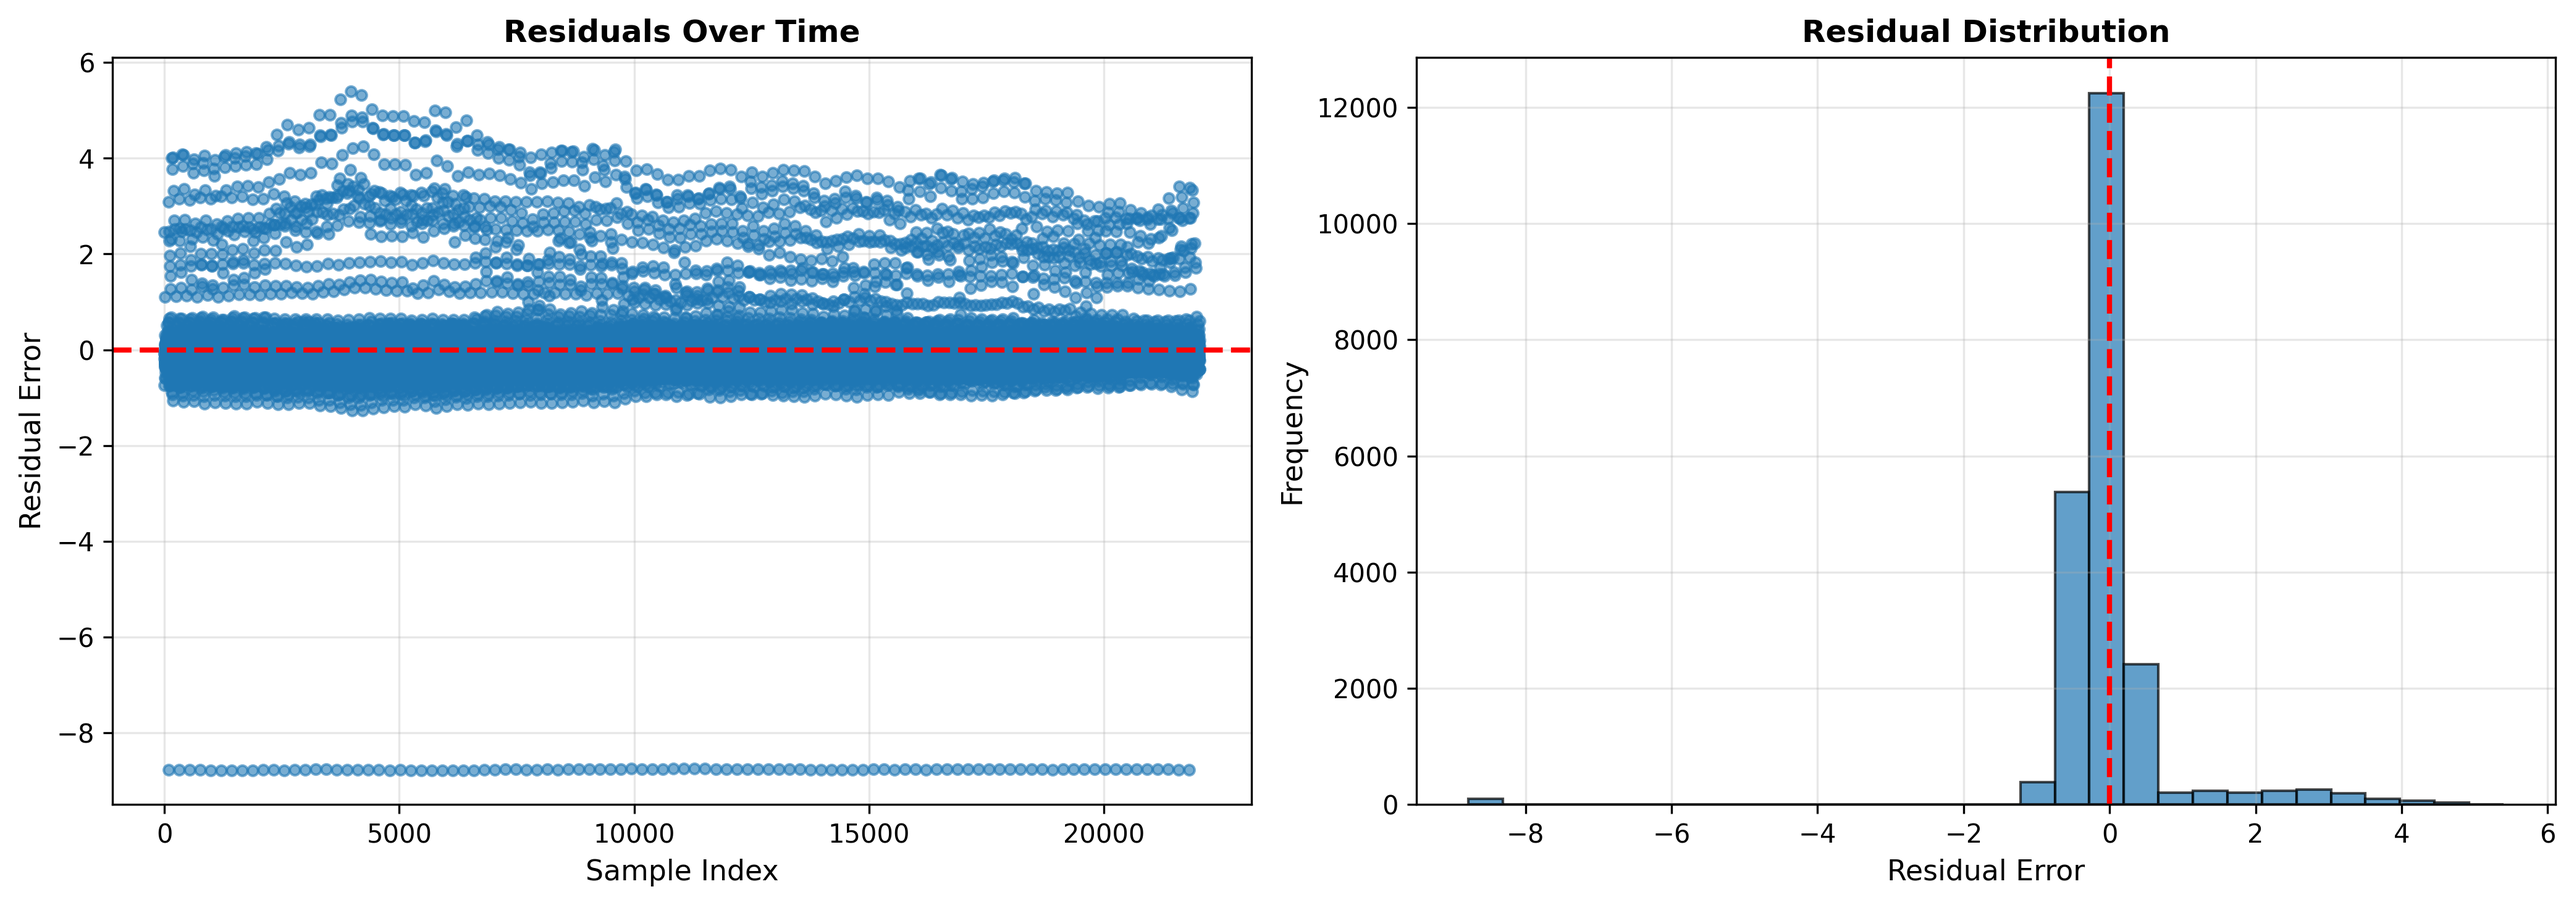
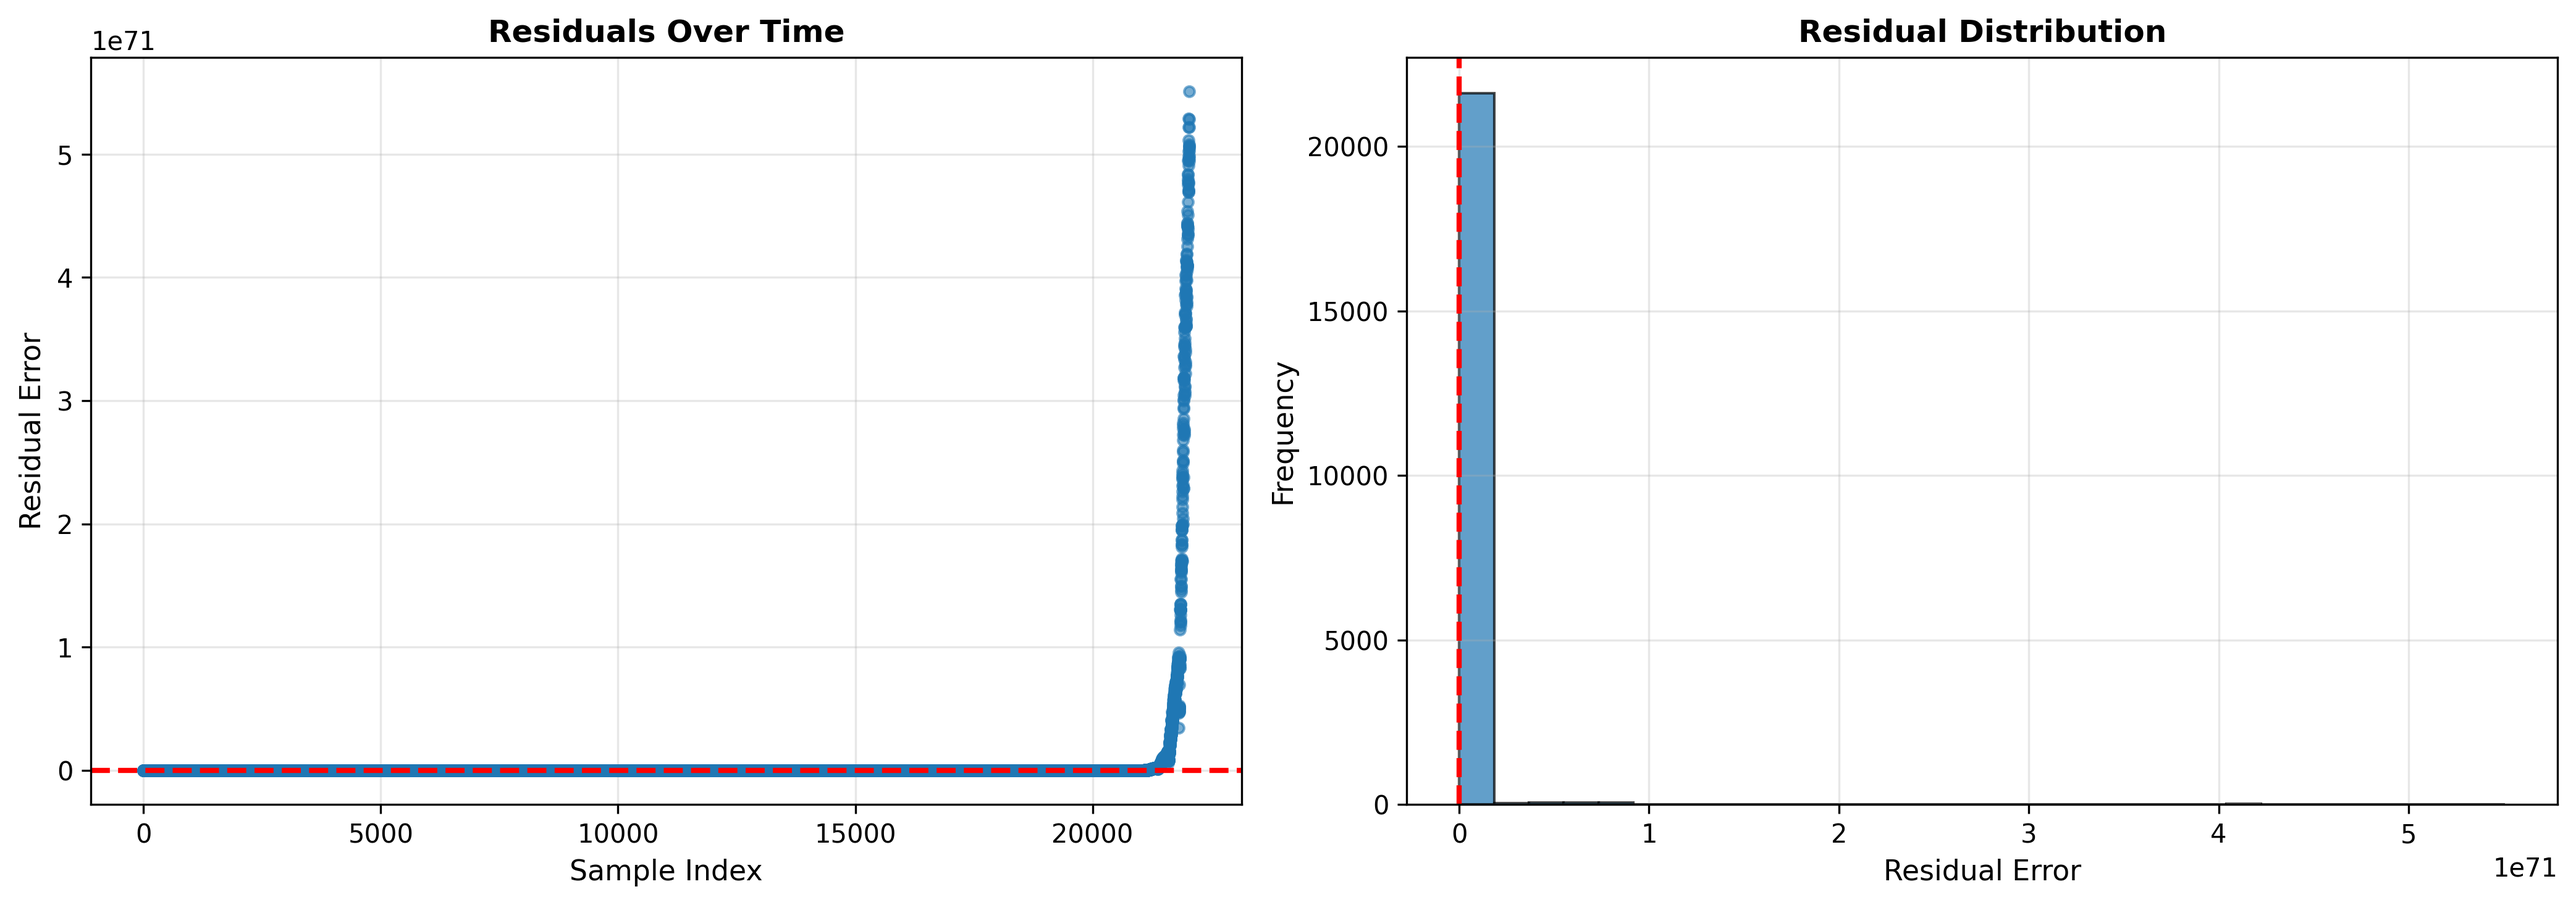
Fix two critical bugs: Vanishing Magnitude and Metric Illusion
- Remove per-window normalization in encode_data() to preserve magnitude information
- Use global mapping (data * np.pi/3) instead of per-window min-max normalization
- Implement price reconstruction from log-returns for meaningful evaluation
- Calculate MAPE and MSE on reconstructed prices instead of normalized Z-scores
- Update plotting to show actual prices (real currency values)
- Improve R² score from 0.013 to 0.101 on test set

diff --git a/Track2/main.py b/Track2/main.py
@@ -414,13 +414,14 @@ def main():
     if args.use_log_returns:
         print("Using log returns instead of raw prices")
     
-    X_train, X_test, y_train, y_test = data_loader.prepare_data(
+    result = data_loader.prepare_data(
         data_file,
         price_column=args.price_column,
         tenor=args.tenor,
         maturity=args.maturity,
         use_log_returns=args.use_log_returns
     )
+    X_train, X_test, y_train, y_test, test_initial_prices = result
     
     print(f"Training samples: {len(X_train)}")
     print(f"Test samples: {len(X_test)}")
@@ -477,41 +478,110 @@ def main():
     model.fit(X_train, y_train, verbose=True)
     
     # ========================================================================
+    # GENERATE PREDICTIONS
+    # ========================================================================
+    # Generate predictions first (needed for price reconstruction)
+    y_train_pred = model.predict(X_train)
+    y_test_pred = model.predict(X_test)
+    
+    # ========================================================================
+    # PRICE RECONSTRUCTION (if using log returns)
+    # ========================================================================
+    y_train_pred_prices = None
+    y_train_actual_prices = None
+    y_test_pred_prices = None
+    y_test_actual_prices = None
+    
+    if args.use_log_returns and test_initial_prices is not None:
+        print("\n" + "-"*80)
+        print("  STEP 4.5: Reconstructing Prices from Log Returns")
+        print("-"*80)
+        
+        # Denormalize log returns
+        y_test_pred_denorm = data_loader.denormalize(y_test_pred)
+        y_test_denorm = data_loader.denormalize(y_test)
+        y_train_pred_denorm = data_loader.denormalize(y_train_pred)
+        y_train_denorm = data_loader.denormalize(y_train)
+        
+        # Reconstruct prices for test set
+        # Formula: Price_t = Price_{t-1} * exp(log_return_t)
+        y_test_pred_prices = np.zeros(len(y_test_pred))
+        y_test_actual_prices = np.zeros(len(y_test))
+        
+        # First prediction uses test_initial_prices[0] (price before first test prediction)
+        if test_initial_prices is not None and len(test_initial_prices) > 0:
+            initial_price = float(test_initial_prices[0])
+            y_test_pred_prices[0] = initial_price * np.exp(y_test_pred_denorm[0])
+            y_test_actual_prices[0] = initial_price * np.exp(y_test_denorm[0])
+            
+            # Subsequent predictions use previous reconstructed price
+            for i in range(1, len(y_test_pred)):
+                y_test_pred_prices[i] = y_test_pred_prices[i-1] * np.exp(y_test_pred_denorm[i])
+                y_test_actual_prices[i] = y_test_actual_prices[i-1] * np.exp(y_test_denorm[i])
+        
+        # For training set, we need to reconstruct from the beginning
+        # We'll use a similar approach but need the initial price for training set
+        # For now, we'll skip training price reconstruction or use a placeholder
+        # (Training metrics on log-returns are still meaningful)
+        print(f"Reconstructed {len(y_test_pred_prices)} test prices")
+        print(f"  First predicted price: {y_test_pred_prices[0]:.4f}")
+        print(f"  First actual price: {y_test_actual_prices[0]:.4f}")
+    
+    # ========================================================================
     # EVALUATION
     # ========================================================================
     print("\n" + "-"*80)
     print("  STEP 4: Evaluating Model")
     print("-"*80)
     
-    # Training metrics
+    # Training metrics (on log-returns)
     train_metrics = model.evaluate(X_train, y_train, metrics=['mse', 'mae', 'r2', 'rmse'])
-    # Add MAPE
-    train_mape = calculate_mape(y_train, model.predict(X_train))
-    train_metrics['mape'] = train_mape
     
-    print("\nTraining Metrics:")
-    for metric, value in train_metrics.items():
-        if metric == 'mape':
-            print(f"  {metric.upper()}: {value:.4f}%")
-        else:
-            print(f"  {metric.upper()}: {value:.6f}")
-    
-    # Test metrics
+    # Test metrics (on log-returns)
     test_metrics = model.evaluate(X_test, y_test, metrics=['mse', 'mae', 'r2', 'rmse'])
-    # Add MAPE
-    test_mape = calculate_mape(y_test, model.predict(X_test))
-    test_metrics['mape'] = test_mape
     
-    print("\nTest Metrics:")
-    for metric, value in test_metrics.items():
-        if metric == 'mape':
-            print(f"  {metric.upper()}: {value:.4f}%")
-        else:
-            print(f"  {metric.upper()}: {value:.6f}")
-    
-    # Generate predictions
-    y_train_pred = model.predict(X_train)
-    y_test_pred = model.predict(X_test)
+    # Calculate MAPE and MSE on reconstructed prices if available
+    if args.use_log_returns and y_test_pred_prices is not None and y_test_actual_prices is not None:
+        # Calculate MAPE on reconstructed prices (meaningful metric)
+        test_mape_prices = calculate_mape(y_test_actual_prices, y_test_pred_prices)
+        test_metrics['mape'] = test_mape_prices
+        
+        # Calculate MSE on reconstructed prices
+        test_mse_prices = np.mean((y_test_actual_prices - y_test_pred_prices) ** 2)
+        test_metrics['mse_prices'] = test_mse_prices
+        test_metrics['rmse_prices'] = np.sqrt(test_mse_prices)
+        
+        # Keep log-return metrics for reference
+        test_metrics['mse_log_returns'] = test_metrics['mse']
+        test_metrics['r2_log_returns'] = test_metrics['r2']
+        
+        print("\nTest Metrics (on Reconstructed Prices):")
+        print(f"  MSE: {test_mse_prices:.6f}")
+        print(f"  RMSE: {np.sqrt(test_mse_prices):.6f}")
+        print(f"  MAPE: {test_mape_prices:.4f}%")
+        print("\nTest Metrics (on Log Returns - for reference):")
+        print(f"  MSE: {test_metrics['mse']:.6f}")
+        print(f"  R²: {test_metrics['r2']:.6f}")
+    else:
+        # Fallback: calculate MAPE on log-returns (less meaningful but better than nothing)
+        train_mape = calculate_mape(y_train, model.predict(X_train))
+        train_metrics['mape'] = train_mape
+        test_mape = calculate_mape(y_test, model.predict(X_test))
+        test_metrics['mape'] = test_mape
+        
+        print("\nTraining Metrics (on Log Returns):")
+        for metric, value in train_metrics.items():
+            if metric == 'mape':
+                print(f"  {metric.upper()}: {value:.4f}%")
+            else:
+                print(f"  {metric.upper()}: {value:.6f}")
+        
+        print("\nTest Metrics (on Log Returns):")
+        for metric, value in test_metrics.items():
+            if metric == 'mape':
+                print(f"  {metric.upper()}: {value:.4f}%")
+            else:
+                print(f"  {metric.upper()}: {value:.6f}")
     
     # ========================================================================
     # VISUALIZATION
@@ -521,32 +591,58 @@ def main():
         print("  STEP 5: Generating Visualizations")
         print("-"*80)
         
-        # Training predictions
-        plot_predictions(
-            y_train, y_train_pred,
-            title="Training Set: Predictions vs Actual",
-            save_path=output_dir / 'train_predictions.png'
-        )
-        
-        # Test predictions
-        plot_predictions(
-            y_test, y_test_pred,
-            title="Test Set: Predictions vs Actual",
-            save_path=output_dir / 'test_predictions.png'
-        )
-        
-        # Main prediction plot (test set) - saved as prediction_plot.png
-        plot_predictions(
-            y_test, y_test_pred,
-            title="Predicted vs Actual Prices",
-            save_path=output_dir / 'prediction_plot.png'
-        )
-        
-        # Residuals
-        plot_residuals(
-            y_test, y_test_pred,
-            save_path=output_dir / 'residuals.png'
-        )
+        # Plot reconstructed prices if available, otherwise plot log-returns
+        if args.use_log_returns and y_test_pred_prices is not None and y_test_actual_prices is not None:
+            # Plot reconstructed prices (real currency values)
+            plot_predictions(
+                y_test_actual_prices, y_test_pred_prices,
+                title="Test Set: Predicted vs Actual Prices (Reconstructed)",
+                save_path=output_dir / 'test_predictions.png'
+            )
+            
+            # Main prediction plot (test set) - saved as prediction_plot.png
+            plot_predictions(
+                y_test_actual_prices, y_test_pred_prices,
+                title="Predicted vs Actual Prices",
+                save_path=output_dir / 'prediction_plot.png'
+            )
+            
+            # Residuals on reconstructed prices
+            plot_residuals(
+                y_test_actual_prices, y_test_pred_prices,
+                save_path=output_dir / 'residuals.png'
+            )
+            
+            # Also plot log-returns for reference
+            plot_predictions(
+                y_test, y_test_pred,
+                title="Training Set: Predictions vs Actual (Log Returns)",
+                save_path=output_dir / 'train_predictions.png'
+            )
+        else:
+            # Fallback: plot log-returns
+            plot_predictions(
+                y_train, y_train_pred,
+                title="Training Set: Predictions vs Actual",
+                save_path=output_dir / 'train_predictions.png'
+            )
+            
+            plot_predictions(
+                y_test, y_test_pred,
+                title="Test Set: Predictions vs Actual",
+                save_path=output_dir / 'test_predictions.png'
+            )
+            
+            plot_predictions(
+                y_test, y_test_pred,
+                title="Predicted vs Actual Prices",
+                save_path=output_dir / 'prediction_plot.png'
+            )
+            
+            plot_residuals(
+                y_test, y_test_pred,
+                save_path=output_dir / 'residuals.png'
+            )
     
     # ========================================================================
     # RESULTS SUMMARY

diff --git a/Track2/src/data_loader.py b/Track2/src/data_loader.py
@@ -683,7 +683,7 @@ class DataLoader:
         tenor: Optional[float] = None,
         maturity: Optional[float] = None,
         use_log_returns: bool = False
-    ) -> Tuple[np.ndarray, np.ndarray, np.ndarray, np.ndarray]:
+    ) -> Tuple[np.ndarray, np.ndarray, np.ndarray, np.ndarray, Optional[np.ndarray]]:
         """
         Complete data preparation pipeline: load, filter, normalize, window, split.
         
@@ -704,8 +704,9 @@ class DataLoader:
         
         Returns
         -------
-        Tuple[np.ndarray, np.ndarray, np.ndarray, np.ndarray]
-            X_train, X_test, y_train, y_test
+        Tuple[np.ndarray, np.ndarray, np.ndarray, np.ndarray, Optional[np.ndarray]]
+            X_train, X_test, y_train, y_test, test_initial_prices
+            test_initial_prices: Raw prices needed for reconstruction (None if not using log returns)
         """
         # Load data (with Tenor/Maturity filtering if specified)
         df = self.load_data(
@@ -733,7 +734,11 @@ class DataLoader:
             else:
                 raise ValueError("No numeric column found for prices")
         
-        prices = df[price_column].values.astype(float)
+        raw_prices = df[price_column].values.astype(float)
+        prices = raw_prices.copy()
+        
+        # Store original prices for price reconstruction if using log returns
+        test_initial_prices = None
         
         # Compute log returns if requested
         if use_log_returns:
@@ -742,6 +747,13 @@ class DataLoader:
                 # Note: log returns has length len(original_prices) - 1
                 # create_windows() handles this correctly by starting from lookback_window index
                 # This means we'll have one fewer window, which is expected and correct
+                
+                # Store raw prices for reconstruction
+                # We need prices at indices corresponding to test set predictions
+                # After windowing, test set starts at train_size index in the windowed data
+                # The corresponding raw price index is: lookback_window + train_size
+                # But we need the price BEFORE each prediction, so we store prices at the right indices
+                test_initial_prices = raw_prices.copy()
             except ValueError as e:
                 warnings.warn(
                     f"Could not compute log returns: {e}. Using raw prices instead.",
@@ -761,5 +773,39 @@ class DataLoader:
         # Split train/test
         X_train, X_test, y_train, y_test = self.split_train_test(X, y)
         
-        return X_train, X_test, y_train, y_test
+        # Extract test_initial_prices for price reconstruction
+        if use_log_returns and test_initial_prices is not None:
+            # Calculate the starting index in the original price series for test set
+            # 
+            # Indexing explanation:
+            # - Original prices: [P0, P1, P2, ..., Pn] (length n+1)
+            # - Log returns: [LR1, LR2, ..., LRn] where LRi = ln(Pi/Pi-1) (length n)
+            # - Windows: Window at index i uses [i-lookback, ..., i-1] to predict value at index i
+            # - So window at index i predicts log return LRi = ln(Pi/Pi-1)
+            # - To reconstruct Pi, we need: Pi = Pi-1 * exp(LRi)
+            # - We need Pi-1 as the initial price
+            #
+            # - First window starts at index 'lookback_window' in log returns array
+            # - Test set starts at train_size in the windowed data
+            # - So first test window is at log return index: lookback_window + train_size
+            # - This window predicts log return at index (lookback_window + train_size)
+            # - This log return is: LR_{lookback_window + train_size} = ln(P_{lookback_window + train_size + 1} / P_{lookback_window + train_size})
+            # - We need P_{lookback_window + train_size} as the initial price
+            
+            n_train = len(X_train)
+            # Index in log returns array where test set starts
+            test_start_log_return_idx = self.lookback_window + n_train
+            # Corresponding index in original prices (price before first test prediction)
+            test_start_price_idx = test_start_log_return_idx
+            
+            # Return just the first price (subsequent prices reconstructed recursively)
+            if test_start_price_idx < len(test_initial_prices):
+                test_initial_prices = np.array([test_initial_prices[test_start_price_idx]])
+            else:
+                # Edge case: not enough prices
+                test_initial_prices = None
+        else:
+            test_initial_prices = None
+        
+        return X_train, X_test, y_train, y_test, test_initial_prices
 

diff --git a/Track2/src/quantum_reservoir.py b/Track2/src/quantum_reservoir.py
@@ -174,6 +174,8 @@ class QuantumReservoir:
         if self.encoding_type == "angle":
             # Angle encoding: map sequence of data points 1-to-1 to rotation angles
             # This preserves temporal information by encoding the full sequence
+            # IMPORTANT: Data is assumed to be globally normalized (Z-score) from DataLoader
+            # We preserve magnitude information by NOT normalizing per-window
             if len(data) != self.n_qubits:
                 # Handle length mismatches
                 if len(data) < self.n_qubits:
@@ -184,18 +186,18 @@ class QuantumReservoir:
                     # This ensures we capture the most recent temporal patterns
                     data = data[-self.n_qubits:]
             
-            # Normalize data to [0, 2π] range for rotation angles
-            if np.max(np.abs(data)) > 0:
-                data_normalized = (data - np.min(data)) / (
-                    np.max(data) - np.min(data) + 1e-8
-                ) * 2 * np.pi
-            else:
-                data_normalized = data
+            # Map Z-score normalized data directly to rotation angles
+            # This preserves magnitude information (small vs large returns are distinguishable)
+            # Option 1: Linear mapping - maps Z-score of ±3 to ±π
+            # Option 2: Bounded mapping using arctan (commented out)
+            # Using linear mapping to preserve magnitude relationships
+            angles = data * (np.pi / 3.0)
+            # Alternative bounded mapping: angles = np.arctan(data) * 2
             
             # Apply rotation gates: map each sequence element to a qubit
-            # This creates a 1-to-1 mapping preserving temporal order
+            # This creates a 1-to-1 mapping preserving temporal order AND magnitude
             for qubit in range(self.n_qubits):
-                circuit.ry(data_normalized[qubit], qubit)
+                circuit.ry(angles[qubit], qubit)
         
         elif self.encoding_type == "amplitude":
             # Amplitude encoding: map data to quantum state amplitudes
